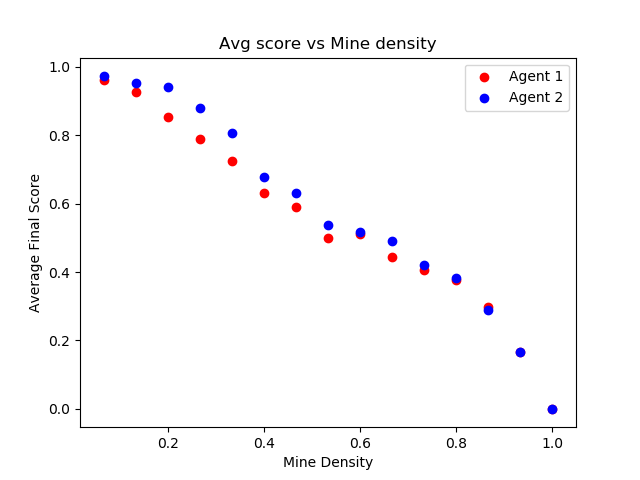
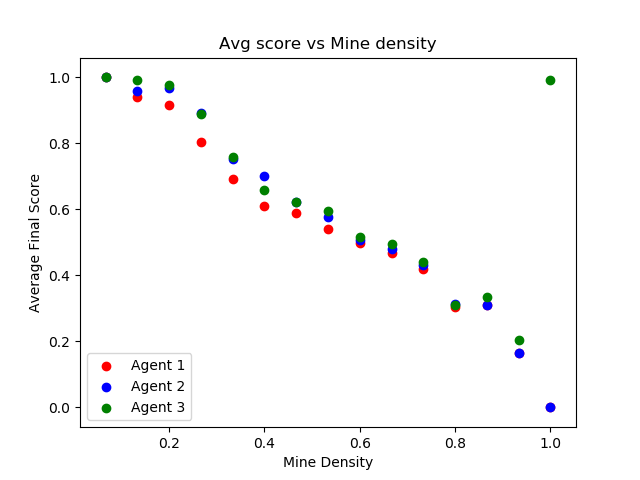
done and submitted

diff --git a/runMS.py b/runMS.py
@@ -4,127 +4,122 @@ import numpy as np
 
 
 
-# #test with user input, make sure to uncomment graphics
-# print("Please enter the dimension of the size board you want to play on: ")
-# dim = int(input())
-# print("Enter how many mines you want in the board: ")
-# num_mines = int(input())
+#test with user input, make sure to uncomment graphics
+print("Please enter the dimension of the size board you want to play on: ")
+dim = int(input())
+print("Enter how many mines you want in the board: ")
+num_mines = int(input())
 
-# matrix = get_answer_key(dim, num_mines)
-# # t1s = time.time()
-# playboard1, flags1 = play_minesweeper(dim,matrix,num_mines,False,False)
-# # t1e = time.time()
-# # timer1=(t1e-t1s)
-# # t2s = time.time()
-# playboard2, flags2 = play_minesweeper(dim,matrix,num_mines,True,False)
-# # t2e = time.time()
-# # timer2=(t2e-t2s)
-# playboard3, flags3 = play_minesweeper(dim,matrix,num_mines,True,True)
+matrix = get_answer_key(dim, num_mines)
+#agent1
+playboard1, flags1 = play_minesweeper(dim,matrix,num_mines,False,False)
+#agent2
+playboard2, flags2 = play_minesweeper(dim,matrix,num_mines,True,False)
+#agent3
+playboard3, flags3 = play_minesweeper(dim,matrix,num_mines,True,True)
 
-# print("time1:", timer1)
-# print("time2:", timer2)
 
 #***START ANALYSIS***
 
 
-agent1_scores = []
-agent2_scores = []
-agent3_scores = []
-times_arr = []
+# agent1_scores = []
+# agent2_scores = []
+# agent3_scores = []
+# times_arr = []
 
 
-#testing for data
-dim = 15
-num_mines = 15
-while num_mines <= 225:
-    flags_a1 = 0
-    flags_a2 = 0
-    flags_a3 = 0
-    timer1=0
-    timer2=0
-    timer3=0
-    for i in range(0,5):
-        matrix = get_answer_key(dim, num_mines)
+# #testing for data
+# dim = 15
+# num_mines = 15
+# while num_mines <= 225:
+#     flags_a1 = 0
+#     flags_a2 = 0
+#     flags_a3 = 0
+#     timer1=0
+#     timer2=0
+#     timer3=0
+#     for i in range(0,5):
+#         matrix = get_answer_key(dim, num_mines)
        
-        #run with agent1
-        t1s = time.time()
-        playboard1, flags1 = play_minesweeper(dim,matrix,num_mines,False, False)
-        t1e = time.time()
-        timer1+=(t1e-t1s)
+#         #run with agent1
+#         t1s = time.time()
+#         playboard1, flags1 = play_minesweeper(dim,matrix,num_mines,False, False)
+#         t1e = time.time()
+#         timer1+=(t1e-t1s)
         
-        for i in range(0,dim):
-            for j in range(0, dim):
-                if(playboard1[i,j].mine == 3):
-                    flags_a1+=1
+#         for i in range(0,dim):
+#             for j in range(0, dim):
+#                 if(playboard1[i,j].mine == 3):
+#                     flags_a1+=1
 
-        #run with agent2
-        t2s = time.time()
-        playboard2, flags2 = play_minesweeper(dim,matrix,num_mines, True, False)
-        t2e = time.time()
-        timer2+=(t2e-t2s)
+#         #run with agent2
+#         t2s = time.time()
+#         playboard2, flags2 = play_minesweeper(dim,matrix,num_mines, True, False)
+#         t2e = time.time()
+#         timer2+=(t2e-t2s)
 
-        for i in range(0,dim):
-            for j in range(0, dim):
-                if(playboard2[i,j].mine == 3):
-                    flags_a2+=1
+#         for i in range(0,dim):
+#             for j in range(0, dim):
+#                 if(playboard2[i,j].mine == 3):
+#                     flags_a2+=1
 
-        #run with agent3
-        t3s = time.time()
-        playboard3, flags3 = play_minesweeper(dim,matrix, num_mines, True, True)
-        t3e = time.time()
-        timer3+=(t3e-t3s)
-        for i in range(0,dim):
-            for j in range(0, dim):
-                if(playboard2[i,j].mine == 3):
-                    flags_a3+=1
-    #add as a tuple as density vs flag success rate
-    agent1_scores.append((num_mines/225, float(flags_a1/(num_mines*5))))
-    agent2_scores.append((num_mines/225, float(flags_a2/(num_mines*5))))
-    agent3_scores.append((num_mines/225, float(flags_a3/(num_mines*5))))
-    times_arr.append(("agent1", num_mines/225, float(timer1/5)))
-    times_arr.append(("agent2", num_mines/225, float(timer2/5)))
-    times_arr.append(("agent3", num_mines/225, float(timer3/5)))
+#         #run with agent3
+#         t3s = time.time()
+#         playboard3, flags3 = play_minesweeper(dim,matrix, num_mines, True, True)
+#         t3e = time.time()
+#         timer3+=(t3e-t3s)
+#         for i in range(0,dim):
+#             for j in range(0, dim):
+#                 if(playboard3[i,j].mine == 3):
+#                     flags_a3+=1
+#     #add as a tuple as density vs flag success rate
+#     agent1_scores.append((num_mines/225, float(flags_a1/(num_mines*5))))
+#     agent2_scores.append((num_mines/225, float(flags_a2/(num_mines*5))))
+#     agent3_scores.append((num_mines/225, float(flags_a3/(num_mines*5))))
+#     times_arr.append(("agent1", num_mines/225, float(timer1/5)))
+#     times_arr.append(("agent2", num_mines/225, float(timer2/5)))
+#     times_arr.append(("agent3", num_mines/225, float(timer3/5)))
 
-    print("MINES ", num_mines)
-    num_mines+=15
+#     print("MINES ", num_mines)
+#     num_mines+=15
 
-#make numpy arrays out of data to put in scatterplot 
-x = np.empty(len(agent1_scores))
-y1 = np.empty(len(agent1_scores))
-y2 = np.empty(len(agent2_scores))
-y3 = np.empty(len(agent2_scores))
-ctr = 0
+# #make numpy arrays out of data to put in scatterplot 
+# x = np.empty(len(agent1_scores))
+# y1 = np.empty(len(agent1_scores))
+# y2 = np.empty(len(agent2_scores))
+# y3 = np.empty(len(agent2_scores))
+# ctr = 0
 
-for time in times_arr:
-    print(time[0], "mine density: ", time[1], "avg time: ", time[2])
+# for time in times_arr:
+#     print(time[0], "mine density: ", time[1], "avg time: ", time[2])
 
-for item in agent1_scores:
-    print("num_mines1: ", item[0], "score1: ", item[1])
-    x[ctr] = item[0]
-    y1[ctr] = item[1]
-    ctr += 1
+# for item in agent1_scores:
+#     print("num_mines1: ", item[0], "score1: ", item[1])
+#     x[ctr] = item[0]
+#     y1[ctr] = item[1]
+#     ctr += 1
 
-ctr = 0
-for item2 in agent2_scores:
-    print("num_mines2: ", item2[0], "score2: ", item2[1])
-    y2[ctr] = item2[1]
-    ctr += 1
+# ctr = 0
+# for item2 in agent2_scores:
+#     print("num_mines2: ", item2[0], "score2: ", item2[1])
+#     y2[ctr] = item2[1]
+#     ctr += 1
 
-ctr = 0
-for item3 in agent3_scores:
-    print("num_mines3: ", item3[0], "score3: ", item3[1])
-    y3[ctr] = item2[1]
-    ctr += 1
+# ctr = 0
+# for item3 in agent3_scores:
+#     print("num_mines3: ", item3[0], "score3: ", item3[1])
+#     y3[ctr] = item3[1]
+#     ctr += 1
 
-#plot data in scatterplot
-plt.scatter(x,y1,color='r', label = 'Agent 1')
-plt.scatter(x,y2,color='b', label = 'Agent 2')
-plt.scatter(x,y3,color='g', label = 'Agent 3')
-plt.title('Avg score vs Mine density')
-plt.xlabel('Mine Density')
-plt.ylabel('Average Final Score')
-plt.legend()
-plt.savefig('avgscore_minedensity.png')
-plt.show()
+# #plot data in scatterplot
+# plt.scatter(x,y1,color='r', label = 'Agent 1')
+# plt.scatter(x,y2,color='b', label = 'Agent 2')
+# plt.scatter(x,y3,color='g', label = 'Agent 3')
+# plt.title('Avg score vs Mine density')
+# plt.xlabel('Mine Density')
+# plt.ylabel('Average Final Score')
+# plt.legend()
+# plt.savefig('avgscore_minedensity.png')
+# plt.show()
 
 #***END ANALYSIS***

diff --git a/matrix.py b/matrix.py
@@ -80,15 +80,21 @@ def solvematrix(mat):
         for j in range (len(mat[0])):
             prevmat[i][j] = mat[i][j]
 
-    #solList = matsolve(mat,solList)
-    while matsolved(mat) == False:
-        solList = matsolve(mat,solList)
-        mat = matsubs(mat, solList)
-        if  np.array_equal (prevmat, mat) ==True:
-            break
-        for i in range (len(mat)):
-            for j in range (len(mat[0])):
-                prevmat[i][j] = mat[i][j]
+    solList = matsolve(mat,solList)
+    # ctr = 0
+    # while matsolved(mat) == False:
+    #     ctr+=1
+    #     print(ctr)
+    #     if(ctr>4):
+    #         break
+        
+    #     solList = matsolve(mat,solList)
+    #     mat = matsubs(mat, solList)
+    #     if  np.array_equal (prevmat, mat) ==True:
+    #         break
+    #     for i in range (len(mat)):
+    #         for j in range (len(mat[0])):
+    #             prevmat[i][j] = mat[i][j]
     return(solList)
 
 

diff --git a/main.py b/main.py
@@ -6,7 +6,6 @@ import random
 import pygame
 from pprint import pprint
 import graphics
-import graphicsAk
 import agent2
 from func import *
 
@@ -83,8 +82,6 @@ def play_minesweeper(dim,matrix,num_mines,agent2_2,agent3):
         w = random.randint(0,dim-1)
         if (matrix[v,w] == 9):
             set_of_coords.remove((v,w))
-        # else:
-        #     playboard[v,w].num = matrix[v,w]
         if (w,v) not in clicked:
             clicked.append((w,v))
         if (v,w) not in knowledge_expanded:
@@ -203,6 +200,6 @@ def play_minesweeper(dim,matrix,num_mines,agent2_2,agent3):
 
     
     #this displays the board using pygame
-    #graphics.display_graphics(playboard, dim, clicked)
+    graphics.display_graphics(playboard, dim, clicked)
 
     return playboard, flag_counter
